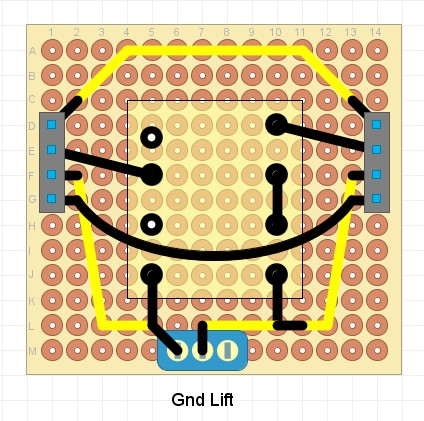
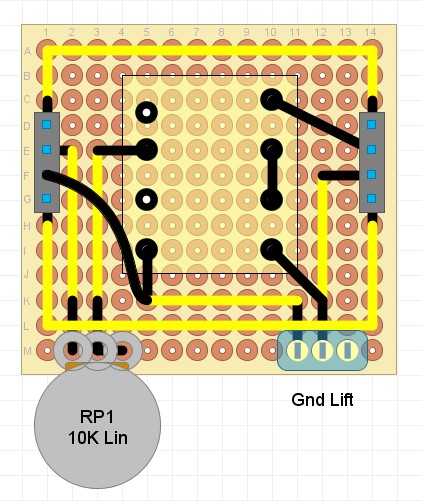
docs: add pot to transformer circuit for better saturation

diff --git a/modules/transformer-1-1/MODULE.md b/modules/transformer-1-1/MODULE.md
@@ -1,7 +1,7 @@
 ## Transformer (1:1 ratio)
 
 ### Purpose
-This is a passive module that uses a single audio transformer configured in a 1:1 ratio to process the audio signal. An optional 'ground lift' switch is provided which can decouple the output ground circuit from the input
+This is a passive module that uses an audio transformer configured in a 1:1 ratio to process the audio signal. An optional 'ground lift' switch is provided which can decouple the output ground circuit from the input
 
 ### Schematic
 ![alt text](schematic.jpg)
@@ -10,5 +10,6 @@ This is a passive module that uses a single audio transformer configured in a 1:
 ![alt text](protoboard.jpg)
 
 ### Design Notes
-- T1 - the TY-250P audio transformer from Triad Magnetics is used in this example. Pin 1 is offset, so wont fit in the standard 0.1 inch board, but its unconnected. The simplest solution to mounting is to carefully remove pin 1.
+- T1 - the TY-250P audio transformer from Triad Magnetics is used in this example. Note that when soldering to a standard 0.1 inch spaced protoboard, Pin 1 is offset so it wont fit. However, as pin 1 is not connected to any coil, the simplest solutionis to just to carefully remove it e.g. with a wire cutter. This transformer can be configured as 1:2 or 1:1 ratio. In this example, the 1:1 ratio is used by connecting pins 6 & 7, and using 5 & 8 as the output.
+- RP1 - the potentiometer adds additional impedance to the input transformer. This causes the transformer to saturate earlier, as well as increasing high frequency gain at higher values.
 - SW1 (optional) - this switch connects the ground planes of the input and output circuits. If ommitted, the ground planes should be connected.
